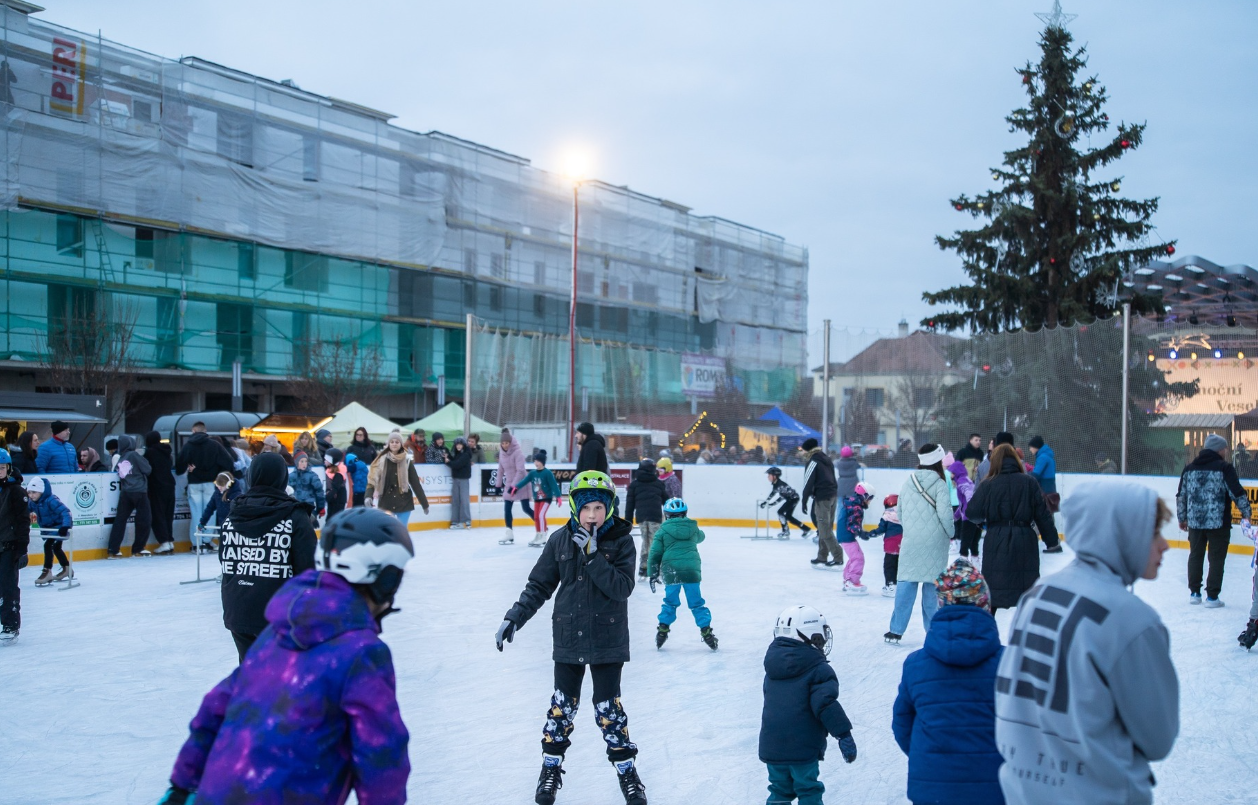
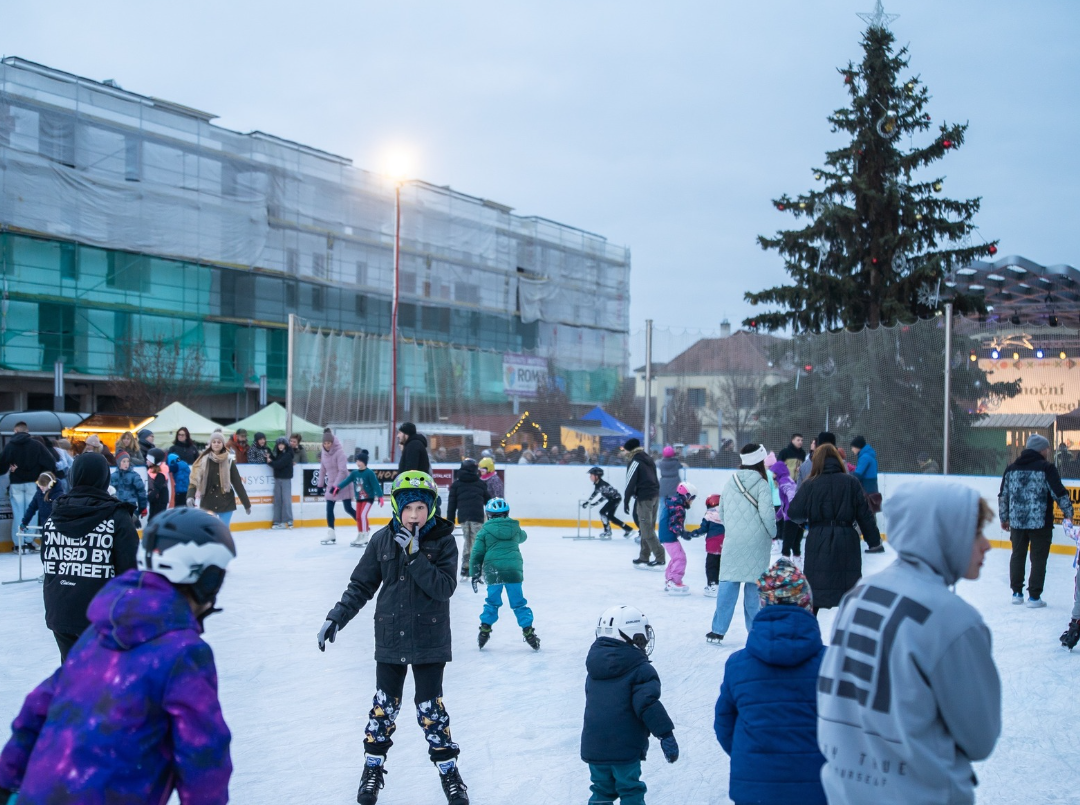
dalsi prace na obrazkach

diff --git a/js/general.js b/js/general.js
@@ -27,3 +27,13 @@ const observer = new IntersectionObserver((entries, observer) => {
   threshold: 0.1
 });
 reveals.forEach(el => observer.observe(el));
+
+// přepínání fotek na úvodu
+const images = document.querySelectorAll("#titleCarousel img");
+let index = 0;
+
+setInterval(() => {
+    images[index].classList.remove("active");
+    index = (index + 1) % images.length;
+    images[index].classList.add("active");
+}, 2500);

diff --git a/css/general.css b/css/general.css
@@ -208,6 +208,7 @@ main {
 
 .main_container .one_container .one_section .photo_group img{
     width: 800px;
+    max-height: 600px;
 }
 #titleCarousel img.active{
     opacity: 1;

diff --git a/index.php b/index.php
@@ -42,6 +42,7 @@
                         <img src="images/kluziste3.jpg" alt="" class="right_photo_clip">
                         <img src="images/kluziste4.jpg" alt="" class="right_photo_clip">
                         <img src="images/kluziste5.jpg" alt="" class="right_photo_clip">
+                        <img src="images/kluziste6.jpg" alt="" class="right_photo_clip">
                     </div>
                 </section>
             </section>
@@ -60,8 +61,7 @@
                         </div>
                     </div>
                     <div class="photo_group one_section_left_side">
-                        <img src="images/verejne_brusleni1.png" alt="" class="left_photo_clip">
-                        
+                        <img src="images/verejne_brusleni1.jpg" alt="" class="left_photo_clip">
                     </div>
                 </section>
 
@@ -76,7 +76,7 @@
                         </div>
                     </div>
                     <div class="photo_group one_section_right_side">
-                        <img src="images/pronajem-plochy-napajedla_800.jpg" alt="" class="right_photo_clip">
+                        <img src="images/pronajem1.jpg" alt="" class="right_photo_clip">
                     </div>
                 </section>
 
@@ -91,7 +91,7 @@
                         </div>
                     </div>
                     <div class="photo_group one_section_left_side">
-                        <img src="images/skolni-akce-napajedla_800.jpg" alt="" class="left_photo_clip">
+                        <img src="images/skolni_akce1.jpg" alt="" class="left_photo_clip">
                     </div>
                 </section>
             </section>
@@ -112,7 +112,7 @@
                         </div>
                     </div>
                     <div class="photo_group one_section_right_side">
-                        <img src="images/verejne-brusleni-napajedla_800.jpg" alt="" class="right_photo_clip">
+                        <img src="images/brouseni_brusli1.jpg" alt="" class="right_photo_clip">
                     </div>
                 </section>
 
@@ -127,7 +127,7 @@
                         </div>
                     </div>
                     <div class="photo_group one_section_left_side">
-                        <img src="images/pronajem-plochy-napajedla_800.jpg" alt="" class="left_photo_clip">
+                        <img src="images/pujcovani_brusli4.jpg" alt="" class="left_photo_clip">
                     </div>
                 </section>
 
@@ -142,7 +142,7 @@
                         </div>
                     </div>
                     <div class="photo_group one_section_right_side">
-                        <img src="images/skolni-akce-napajedla_800.jpg" alt="" class="right_photo_clip">
+                        <img src="images/obcerstveni1.png" alt="" class="right_photo_clip">
                     </div>
                 </section>
 

diff --git a/price_list.php b/price_list.php
@@ -36,8 +36,10 @@
                     <div class="text_section box_glass_effect one_section_left_side">
                         <h1 class="title reveal delay"><span class="underline_color_gradient">Ceník</span> bruslení a <br>ostatních služeb <br><span class="text_color_gradient">naleznete níže!</span></h1>
                     </div>
-                    <div class="photo_group one_section_right_side">
-                        <img src="images/title_background_dark_800.jpg" alt="" class="right_photo_clip">
+                    <div class="photo_group one_section_right_side" id="titleCarousel">
+                        <img src="images/verejne_brusleni3.png" alt="" class="right_photo_clip active">
+                        <img src="images/verejne_brusleni4.jpg" alt="" class="right_photo_clip">
+                        <img src="images/verejne_brusleni5.jpg" alt="" class="right_photo_clip">
                     </div>
                 </section>
             </section>
@@ -102,9 +104,10 @@
                     </div>
                 </section>
             </section>
+            <span class="decoration_red_line"></span>
         </div>
     </main>
-
+    
     <button class="box_glass_effect_red" id="arrow_top_scroll" type="button"><i class="fa-solid fa-angles-up"></i></button>
     <?php require "assets/footer.php"; ?>
     <script src="js/header.js"></script>

diff --git a/operating_hours.php b/operating_hours.php
@@ -130,6 +130,7 @@
             <section>
                 <p class="text">Provozní doba se<span> může lišit </span>v závislosti na poptávce, počasí a dalších faktorech ovlivňující provoz kluziště, proto <a href="rezervation.php">sledujte především aktuální rozpis ledu!</a></p>
             </section>
+            <span class="decoration_red_line"></span>
 
             <!-- provozní doba ostatních služeb -->
             <section class="operating_hours operating_hours_next_services one_container">

diff --git a/webkamera.php b/webkamera.php
@@ -49,6 +49,7 @@
                     <iframe id="blockrandom" name="iframe" src="https://g0.ipcamlive.com/player/player.php?alias=65645d56307e4" width="100%" height="500px" scrolling="auto" frameborder="1" title="Web Kamera" class="box_glass_effect"></iframe>
                 </section>
             </section>
+            <span class="decoration_red_line"></span>
         </div>
     </main>
 
